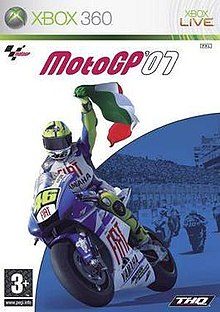
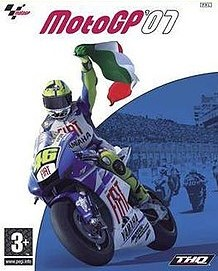
change image

diff --git a/Xbox_games/MotoGP07.php b/Xbox_games/MotoGP07.php
@@ -102,10 +102,10 @@ div.transbox_motogp07{
         margin: 0rem;
         padding: 0.1 rem;
         text-indent: 200px;
-        background: url('/Xbox_games/Xbox360_games/motogp-07-front-cover.jpg');
+        background: url('/Xbox_games/Xbox360_games/Motogp07.jpg');
         background-repeat: no-repeat;
-        width: 50%;
-        height: 50px;
+        width: 100%;
+        height: 234px;
         }
       ul{
         list-style: none;
